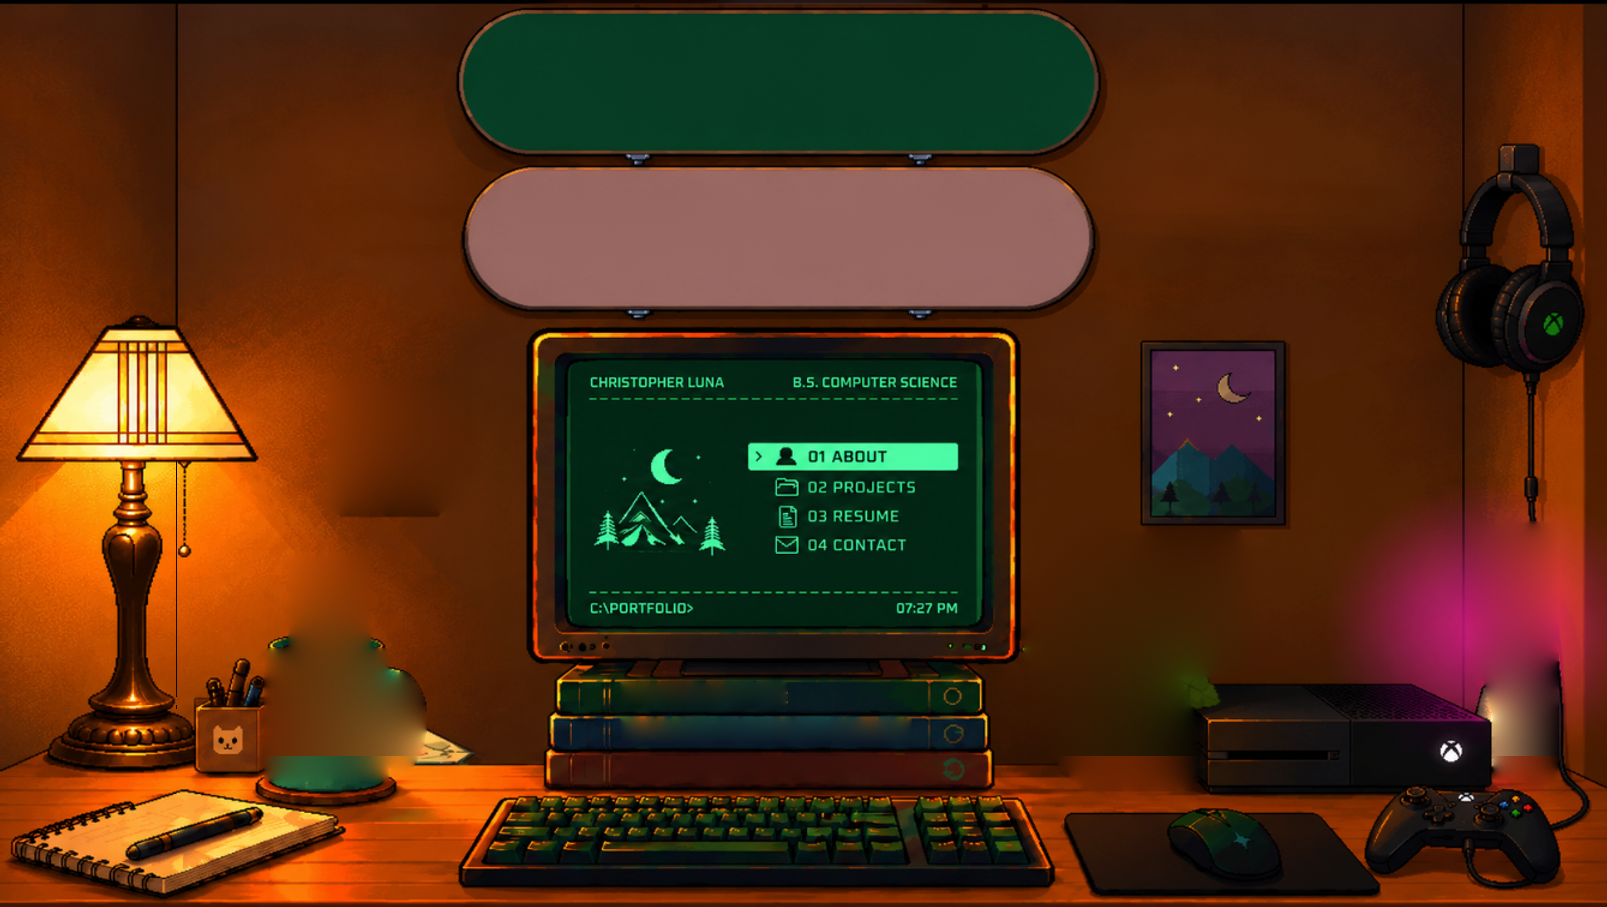
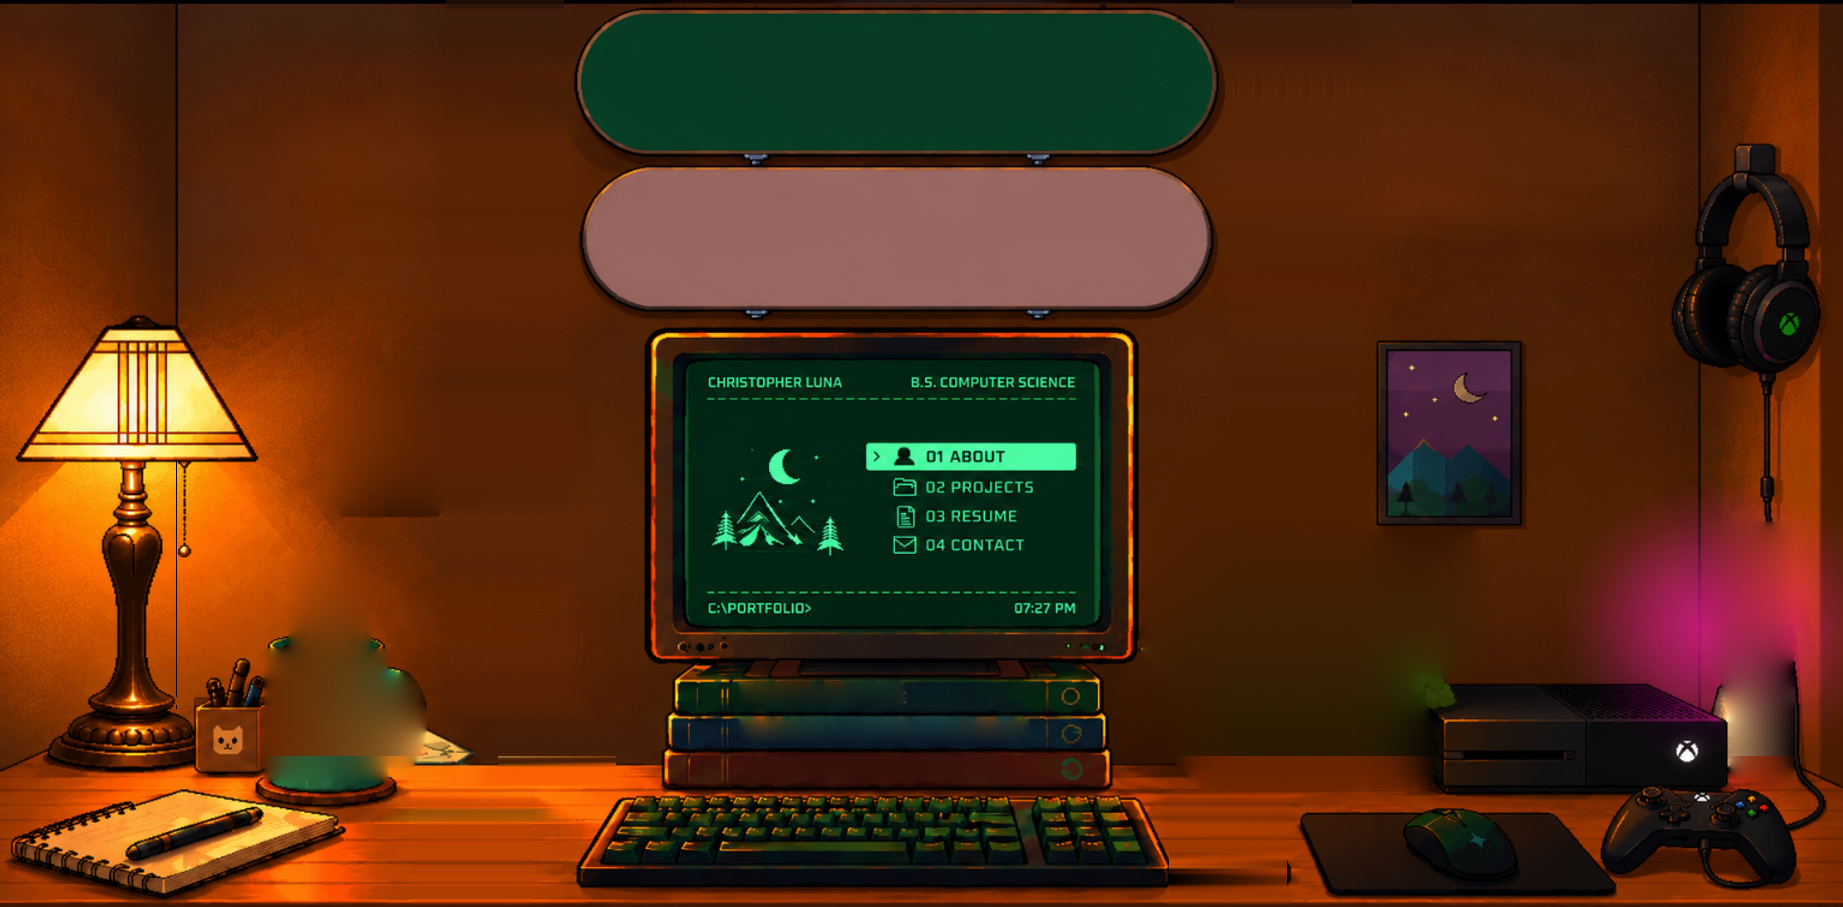
Widen the room itself so full screen shows no side strips
As before with the painting: two 118 art px strips of plain wall and desk go into the room along paths between things (between the sticky note and the monitor, the coaster and the keyboard; between the decks and the poster, the monitor and the plant, the keyboard and the mousepad), with the room's own dither and desk-coloured samples, so a ~2:1 full-screen window is covered by the room. The standing view is centred on the room; boxes, deck and spine words move with the strips.

diff --git a/scripts/mockup-room.js b/scripts/mockup-room.js
@@ -78,11 +78,67 @@ function lampOff(img) {
 }
 
 /**
+ * The room widened so a full-screen window is covered by the room itself (no side walls painted on): strips
+ * of plain wall and desk put in along paths that thread between things (mockup px, rows [y0, y1) at column x).
+ * Left: between the sticky note and the decks, the note and the monitor, the coaster and the keyboard. Right:
+ * between the decks and the poster, the monitor and the plant, the keyboard and the mousepad.
+ */
+const CUTS = {
+  left: { d: 118, path: [[0, 598, 372], [598, 655, 415], [655, MH, 345]] },
+  right: { d: 118, path: [[0, 660, 930], [660, MH, 876]] },
+};
+const WW = W + CUTS.left.d + CUTS.right.d;
+const cutAt = (side, yArt) => { const my = yArt / K; return Math.round(CUTS[side].path.find(([a, b]) => my >= a && my < b)[2] * K); };
+/** An art-px column of the mockup room to its place in the widened room, on art-px row y. */
+const mapX = (x, y) => x + (x >= cutAt('left', y) ? CUTS.left.d : 0) + (x >= cutAt('right', y) ? CUTS.right.d : 0);
+
+function widen(img) {
+  const out = Buffer.alloc(WW * H * 3), deskY = Math.round(DESK_Y * K);
+  const px = (x, y, c) => img[(clamp(y, 0, H - 1) * W + clamp(x, 0, W - 1)) * 3 + c];
+  for (const side of ['left', 'right']) {
+    // each side of the cut's colour per row, smoothed down the rows (wall and desk apart) so no row's dither
+    // becomes a streak; and the cut's own texture (each pixel less its local mean), mirrored across the strip
+    // on the desk, only desk-coloured pixels (lit orange wood) count, searching outward past any object's edge
+    const desky = (x, y) => { const r = px(x, y, 0), g = px(x, y, 1), b = px(x, y, 2); return r > 70 && r > g * 1.3 && g > b; };
+    const col = (dx) => Array.from({ length: H }, (_, y) => {
+      const s = [0, 0, 0]; let n = 0;
+      for (let k = 0; k < 60 && n < 4; k++) {
+        const x = cutAt(side, y) + dx + (dx < 0 ? -k : k);
+        if (y >= deskY && !desky(x, y)) continue;
+        for (let c = 0; c < 3; c++) s[c] += px(x, y, c); n++;
+      }
+      return n ? s.map((v) => v / n) : [px(cutAt(side, y) + dx, y, 0), px(cutAt(side, y) + dx, y, 1), px(cutAt(side, y) + dx, y, 2)];
+    });
+    // the wall is smoothed down the rows (no streaks); the desk keeps its planks, lightly
+    const sm = (a) => a.map((_, y) => { const r = y < deskY ? 6 : 1, s = [0, 0, 0]; let n = 0; for (let k = y - r; k <= y + r; k++) { if (k < 0 || k >= H || (k < deskY) !== (y < deskY)) continue; for (let c = 0; c < 3; c++) s[c] += a[k][c]; n++; } return s.map((v) => v / n); });
+    CUTS[side].L = sm(col(-1)); CUTS[side].R = sm(col(0));
+  }
+  for (let y = 0; y < H; y++) {
+    let o = y * WW * 3, x = 0;
+    for (const side of ['left', 'right']) {
+      const cut = cutAt(side, y), d = CUTS[side].d, L = CUTS[side].L[y], R = CUTS[side].R[y];
+      img.copy(out, o, (y * W + x) * 3, (y * W + cut) * 3); o += (cut - x) * 3; x = cut;
+      for (let k = 0; k < d; k++) {
+        const t = k / (d - 1), m = k % 24, j = m < 12 ? m : 23 - m, gx = cut - 12 + j;
+        for (let c = 0; c < 3; c++) {
+          let mean = 0; for (let dy = -2; dy <= 2; dy++) for (let dx = -2; dx <= 2; dx++) mean += px(gx + dx, y + dy, c) / 25;
+          const grain = y < deskY ? clamp(px(gx, y, c) - mean, -10, 10) : 0;
+          out[o + c] = clamp(Math.round(L[c] * (1 - t) + R[c] * t + grain * 0.7 + hash(k + cut, y, 3 + c) * 2), 0, 255);
+        }
+        o += 3;
+      }
+    }
+    img.copy(out, o, (y * W + x) * 3, (y * W + W) * 3);
+  }
+  return out;
+}
+
+/**
  * The closet's side walls and the desk carried on past the edges, without smearing: each row's colour at the
  * edge, smoothed down the rows (so no row's dither turns into a stripe), darkening outward, with real 2D grain
  * from a clean patch of the left side wall laid over it (its fine texture only, the patch's light taken off).
  */
-function side(img, left) {
+function side(img, left, W = WW) {
   const out = Buffer.alloc(SW * H * 3), deskY = Math.round(DESK_Y * K);
   const at = (x, y, c) => img[(clamp(y, 0, H - 1) * W + clamp(x, 0, W - 1)) * 3 + c];
   // the edge colour per row
@@ -146,20 +202,23 @@ const savePng = (buf, w, file) => sharp(buf, { raw: { width: w, height: H, chann
       if (wallish) for (let c = 0; c < 3; c++) img[o + c] = Math.round(lc[c] * (0.6 + 0.4 * Math.min(1, img[o - 9 + c] / 120)));
     }
   }
-  const off = lampOff(img);
-  await saveWebp(img, W, path.join(CIN, 'room.webp'));
-  await saveWebp(off, W, path.join(CIN, 'desk-off.webp'));
-  await savePng(side(img, true), SW, path.join(CIN, 'side-left.png'));
-  await savePng(side(img, false), SW, path.join(CIN, 'side-right.png'));
+  const off0 = lampOff(img);
+  const room = widen(img), off = widen(off0);
+  await saveWebp(room, WW, path.join(CIN, 'room.webp'));
+  await saveWebp(off, WW, path.join(CIN, 'desk-off.webp'));
+  await savePng(side(room, true), SW, path.join(CIN, 'side-left.png'));
+  await savePng(side(room, false), SW, path.join(CIN, 'side-right.png'));
   await savePng(side(off, true), SW, path.join(CIN, 'side-left-off.png'));
   await savePng(side(off, false), SW, path.join(CIN, 'side-right-off.png'));
 
   // ---- room.json: every box in art px (mockup px x K) ----
   const A = (v) => Math.round(v * K);
-  const pct = ([x0, y0, x1, y1]) => ({ left: +((x0 / W) * 100).toFixed(3), top: +((y0 / H) * 100).toFixed(3), width: +(((x1 - x0) / W) * 100).toFixed(3), height: +(((y1 - y0) / H) * 100).toFixed(3) });
+  // boxes are worked out in the mockup room's art px, then moved into the widened room (by their middle row)
+  const mv = ([x0, y0, x1, y1]) => { const d = mapX(x0, (y0 + y1) / 2) - x0; return [x0 + d, y0, x1 + d, y1]; };
+  const pct = (b) => { const [x0, y0, x1, y1] = mv(b); return { left: +((x0 / WW) * 100).toFixed(3), top: +((y0 / H) * 100).toFixed(3), width: +(((x1 - x0) / WW) * 100).toFixed(3), height: +(((y1 - y0) / H) * 100).toFixed(3) }; };
   const box = (x, y, w, h) => [x, y, x + w, y + h];
   const old = JSON.parse(fs.readFileSync(path.join(CIN, 'room.json'), 'utf8'));
-  const glass = [A(474), A(296), A(822), A(522)];
+  const glass = mv([A(474), A(296), A(822), A(522)]);
   // the sprites, each lined up with the thing it replaces (art px)
   const mug = box(A(271) - 97, A(650) - 220, 224, 256); // its body's middle and its base
   const note = box(A(276) - 6, A(320) - 15, 156, 162); // the paper's corner
@@ -168,29 +227,32 @@ const savePng = (buf, w, file) => sharp(buf, { raw: { width: w, height: H, chann
   const m = {
     ...old,
     image: 'room.webp',
-    size: { width: W, height: H },
+    size: { width: WW, height: H },
+    // the words on the decks and spines (CinemaScene's WALL_TEXT, in the mockup room's art px) move with them
+    textDx: CUTS.left.d,
     screenPx: glass,
-    screenPct: pct(glass),
-    focalPoint: [+((((glass[0] + glass[2]) / 2) / W) * 100).toFixed(2), +((((glass[1] + glass[3]) / 2) / H) * 100).toFixed(2)],
+    screenPct: { left: +((glass[0] / WW) * 100).toFixed(3), top: +((glass[1] / H) * 100).toFixed(3), width: +(((glass[2] - glass[0]) / WW) * 100).toFixed(3), height: +(((glass[3] - glass[1]) / H) * 100).toFixed(3) },
+    // standing, the room is centred (it's laid out to be seen whole)
+    focalPoint: [50, +((((glass[1] + glass[3]) / 2) / H) * 100).toFixed(2)],
     monitorPct: pct([A(440), A(272), A(848), A(550)]),
     decksPct: [pct([A(388), A(6), A(914), A(136)]), pct([A(386), A(136), A(912), A(266)])],
     props: {
       ...old.props,
-      mug: { ...old.props.mug, boxPx: mug, boxPct: pct(mug), spill: { ...old.props.mug.spill, boxPct: pct(box(mug[0] - 72, mug[1] - 23, 295, 274)) } },
-      steam: { ...old.props.steam, boxPx: mug, boxPct: pct(mug) },
-      note: { ...old.props.note, boxPx: note, boxPct: pct(note) },
-      'plant-pot': { ...old.props['plant-pot'], boxPx: plant, boxPct: pct(plant) },
-      'plant-leaves': { ...old.props['plant-leaves'], boxPx: plant, boxPct: pct(plant) },
+      mug: { ...old.props.mug, boxPx: mv(mug), boxPct: pct(mug), spill: { ...old.props.mug.spill, boxPct: pct(box(mug[0] - 72, mug[1] - 23, 295, 274)) } },
+      steam: { ...old.props.steam, boxPx: mv(mug), boxPct: pct(mug) },
+      note: { ...old.props.note, boxPx: mv(note), boxPct: pct(note) },
+      'plant-pot': { ...old.props['plant-pot'], boxPx: mv(plant), boxPct: pct(plant) },
+      'plant-leaves': { ...old.props['plant-leaves'], boxPx: mv(plant), boxPct: pct(plant) },
     },
     // a peeled note comes to rest flat on the desk's back edge behind the mug (art px from where it hangs)
     noteLand: { dx: A(271) - (note[0] + 78), dy: A(DESK_Y) + 4 - (note[1] + 5) },
     lamp: { off: '/cinema/desk-off.webp', hitPct: pct([A(15), A(262), A(216), A(645)]) },
     lava: { boxPct: pct(lava) },
     pens: { files: [], boxPct: pct([0, 0, 1, 1]), originPct: [], hitPct: pct([0, 0, 1, 1]) },
-    antPct: { from: [+(((A(940)) / W) * 100).toFixed(2), +(((A(652)) / H) * 100).toFixed(2)], to: [+(((A(870)) / W) * 100).toFixed(2), +(((A(664)) / H) * 100).toFixed(2)] },
+    antPct: { from: [+(((mapX(A(940), A(652))) / WW) * 100).toFixed(2), +(((A(652)) / H) * 100).toFixed(2)], to: [+(((mapX(A(870), A(652))) / WW) * 100).toFixed(2), +(((A(664)) / H) * 100).toFixed(2)] },
     sides: { px: SW, left: '/cinema/side-left.png', right: '/cinema/side-right.png', leftOff: '/cinema/side-left-off.png', rightOff: '/cinema/side-right-off.png' },
   };
   delete m.decor; delete m.widen;
   fs.writeFileSync(path.join(CIN, 'room.json'), JSON.stringify(m, null, 2) + '\n');
-  console.log('done', W, H);
+  console.log('done', WW, H);
 })();

diff --git a/components/cinema/CinemaScene.tsx b/components/cinema/CinemaScene.tsx
@@ -67,6 +67,8 @@ interface Manifest {
   antPct: { from: number[]; to: number[] };
   /** Where a peeled note comes to rest, art px from where it hangs: on the desk behind the mug. */
   noteLand: { dx: number; dy: number };
+  /** How far the deck and spine words move in the widened room (art px). */
+  textDx?: number;
   /** Sprites that just sit in the room (the console, controller, headset and its cable), back to front. */
   decor?: { name: string; file: string; boxPct: PctBox; z: number }[];
   colors: { coffee: { dark: string; mid: string; hi: string } };
@@ -173,7 +175,7 @@ const WALL_TEXT: WallText[] = [
   { lines: ["COMPUTER ORGANIZATION"], x: 625, y: 766, size: 15.5, color: SPINE, align: "left", track: 0.1, weight: 600 },
 ];
 const wallTextStyle = (t: WallText): CSSProperties => ({
-  left: `${(t.x / art.size.width) * 100}%`,
+  left: `${((t.x + (art.textDx ?? 0)) / art.size.width) * 100}%`,
   top: `${(t.y / art.size.height) * 100}%`,
   fontSize: `${(t.size / art.size.width) * 100}cqw`,
   color: t.color,
